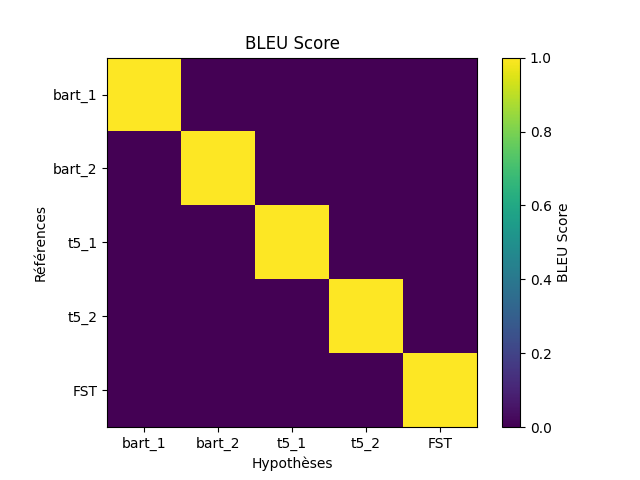
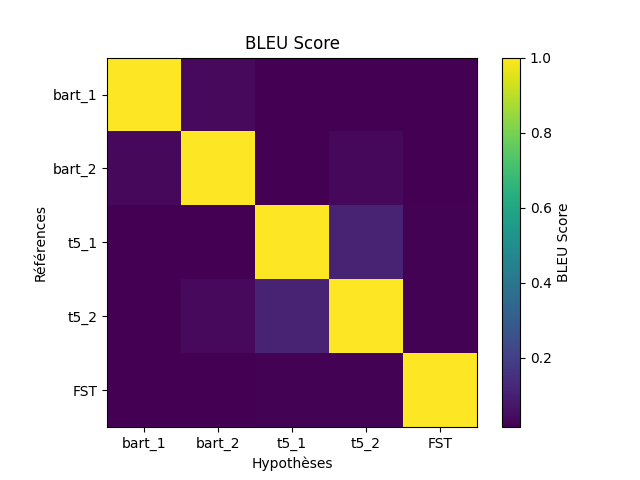
mean and std

diff --git a/src/charts/metric.py b/src/charts/metric.py
@@ -1,7 +1,9 @@
 import csv
+import random
+
 import matplotlib.pyplot as plt
 import numpy as np
-from nltk.translate.bleu_score import sentence_bleu
+from nltk.translate.bleu_score import sentence_bleu, SmoothingFunction
 from nltk.translate.meteor_score import single_meteor_score
 from rouge_score import rouge_scorer
 
@@ -22,7 +24,8 @@ def evaluate_metrics(reference, hypothesis):
     hypothesis_tokens = tokenize_phrase(hypothesis)
 
     # BLEU score
-    bleu_score = sentence_bleu([reference_tokens], hypothesis_tokens)
+    smoothing_function = SmoothingFunction().method4
+    bleu_score = sentence_bleu([reference_tokens], hypothesis_tokens, smoothing_function=smoothing_function)
 
     # ROUGE score
     rouge_scorer_instance = rouge_scorer.RougeScorer(['rougeL'], use_stemmer=True)
@@ -76,3 +79,44 @@ bleu, rouge, meteor = create_matrix(895)
 plot_matrix(bleu, 'BLEU Score', 'plot/bleu_score.png')
 plot_matrix(rouge, 'ROUGE Score', 'plot/rouge_score.png')
 plot_matrix(meteor, 'METEOR Score', 'plot/meteor_score.png')
+
+def get_random_interpretation_id():
+    interpretation_ids = []
+    with open('data/captions.csv', 'r', encoding='utf-8') as file:
+        csv_reader = csv.DictReader(file)
+        for row in csv_reader:
+            interpretation_ids.append(row['idInterpretation_id'])
+    return random.choice(interpretation_ids)
+
+def means_and_std(nb_test):
+    scores_bleu = np.zeros((5, 5, nb_test))
+    scores_rouge = np.zeros((5, 5, nb_test))
+    scores_meteor = np.zeros((5, 5, nb_test))
+
+    for test in range(nb_test):
+        interpretation_id = get_random_interpretation_id()
+        print(interpretation_id)
+        bleu, rouge, meteor = create_matrix(interpretation_id)
+        scores_bleu[:, :, test] = bleu
+        scores_rouge[:, :, test] = rouge
+        scores_meteor[:, :, test] = meteor
+
+    mean_bleu = np.mean(scores_bleu, axis=2)
+    std_bleu = np.std(scores_bleu, axis=2)
+    mean_rouge = np.mean(scores_rouge, axis=2)
+    std_rouge = np.std(scores_rouge, axis=2)
+    mean_meteor = np.mean(scores_meteor, axis=2)
+    std_meteor = np.std(scores_meteor, axis=2)
+
+    return (mean_bleu, std_bleu), (mean_rouge, std_rouge), (mean_meteor, std_meteor)
+
+bleu, rouge, meteor = means_and_std(10)
+
+plot_matrix(bleu[0], 'BLEU Score (mean)', 'plot/bleu_score_mean.png')
+plot_matrix(bleu[1], 'BLEU Score (std)', 'plot/bleu_score_std.png')
+
+plot_matrix(rouge[0], 'ROUGE Score (mean)', 'plot/rouge_score_mean.png')
+plot_matrix(rouge[1], 'ROUGE Score (std)', 'plot/rouge_score_std.png')
+
+plot_matrix(meteor[0], 'METEOR Score (mean)', 'plot/meteor_score_mean.png')
+plot_matrix(meteor[1], 'METEOR Score (std)', 'plot/meteor_score_std.png')
